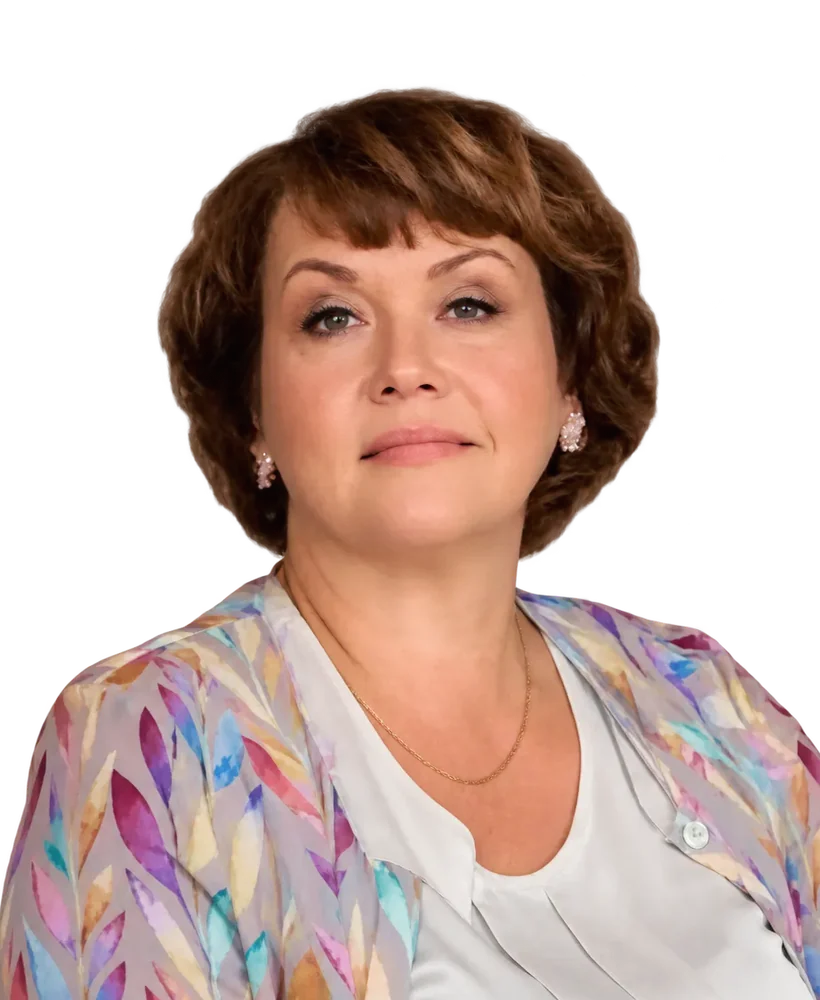
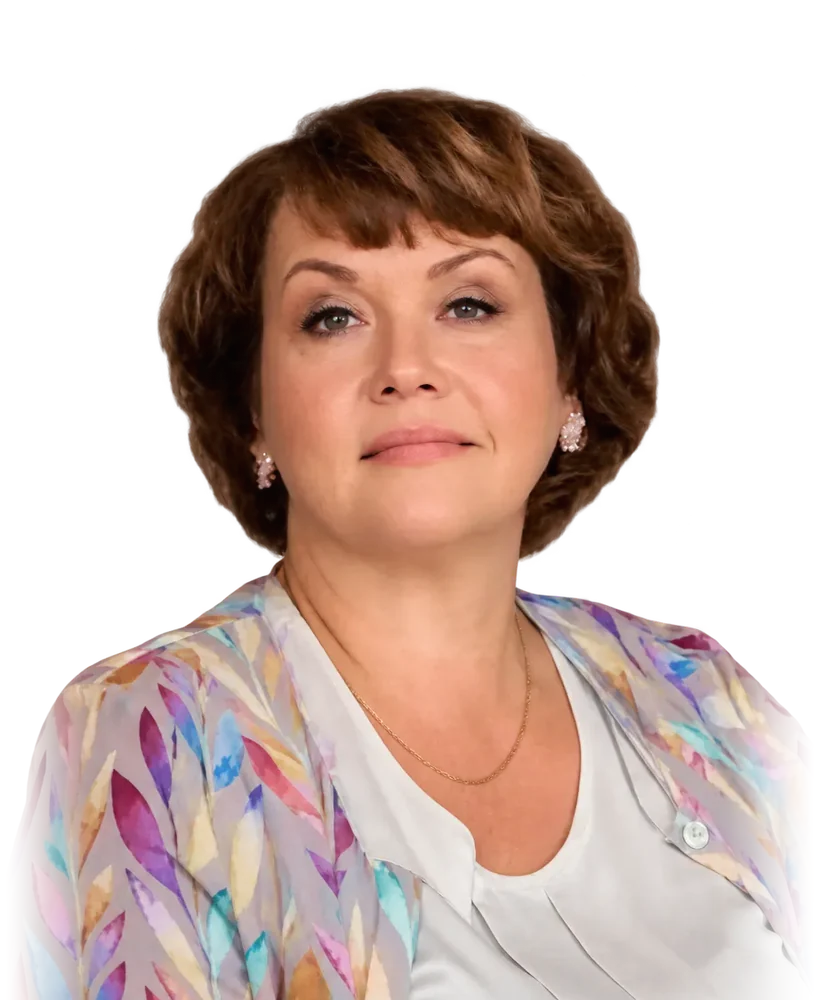
Сайт: после последнего шарика страница мягко опускается к финалу; у фото Власовой и Кочуровой края кадра растворяются

Changed region(s): [[0.8841, 0.651, 1.0, 1.0], [0.0, 0.682, 0.122, 1.0]]

diff --git a/index.html b/index.html
@@ -1659,6 +1659,15 @@ footer a{text-decoration:none}
     /* но не ниже строки «Всё отпущено…»: на текст логотип не наезжает */
     lgLogo.style.top = Math.round(Math.min(sky.offsetTop + sky.offsetHeight - h*.25, lgDone.offsetTop + 8 - h/2)) + 'px';
   }
+  /* после последнего шарика страница мягко опускается: логотип, надписи и кнопка «Забронировать» — в кадре.
+     Только вниз и не дальше, чем нужно, чтобы логотип остался под шапкой */
+  function toFinale(){
+    var btn = dawn.querySelector('.wrap > .btn'), last = btn && btn.offsetParent ? btn : lgBye;
+    var head = document.querySelector('.top').getBoundingClientRect().height;
+    var y = Math.min(last.getBoundingClientRect().bottom + scrollY + 28 - innerHeight,
+                     lgLogo.getBoundingClientRect().top + scrollY - head - 16);
+    if (y > scrollY + 4) scrollTo({top: y, behavior: REDUCE ? 'auto' : 'smooth'});
+  }
   function letGo(b){
     /* полёт от текущего положения (с учётом покачивания): немного вверх с лёгким дрейфом и плавное исчезновение */
     var from = getComputedStyle(b).transform;
@@ -1670,7 +1679,7 @@ footer a{text-decoration:none}
     if (released === LET.length){
       knot.style.opacity = 0;
       setTimeout(function(){ lgDone.textContent = 'Всё отпущено. Приходите 21 ноября — продолжим вместе.'; lgDone.classList.add('on'); }, REDUCE ? 0 : 900);
-      setTimeout(function(){ placeLogo(); lgLogo.classList.add('on'); }, REDUCE ? 0 : 1500);
+      setTimeout(function(){ placeLogo(); lgLogo.classList.add('on'); toFinale(); }, REDUCE ? 0 : 1500);
       setTimeout(function(){ lgQuote.classList.add('on'); }, REDUCE ? 0 : 3000);
       setTimeout(function(){ lgBye.classList.add('on'); }, REDUCE ? 0 : 4300);
     } else if (released === 1){
